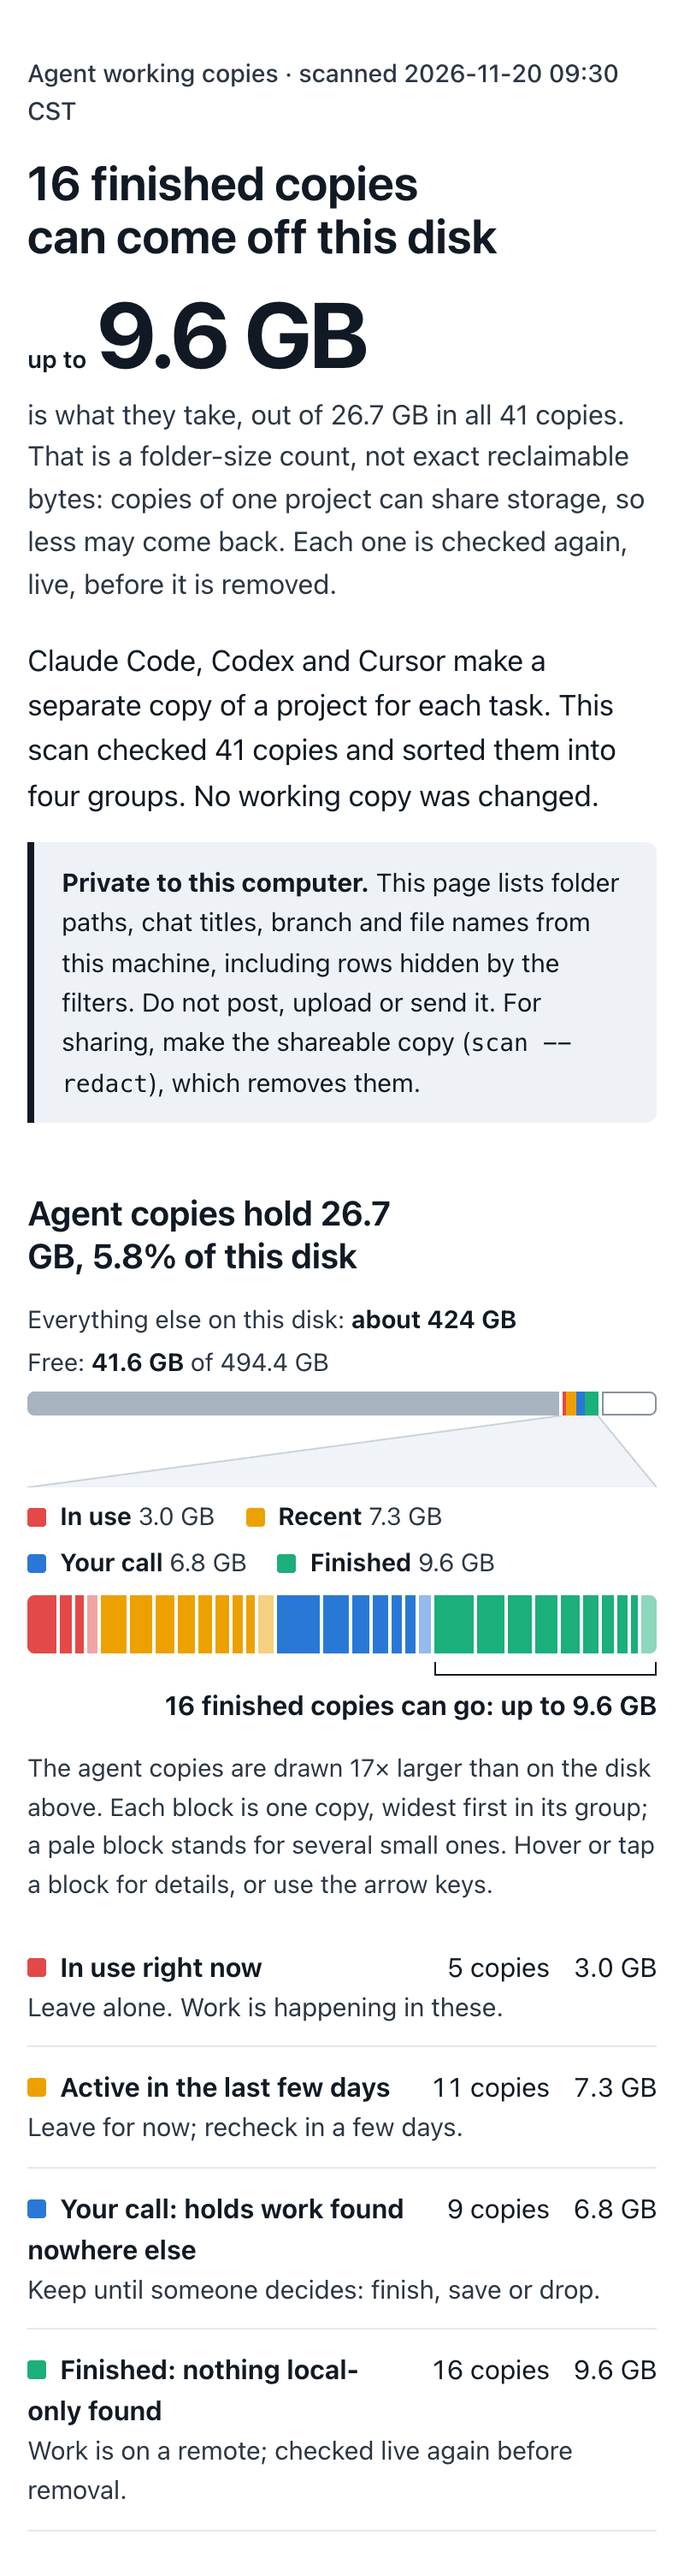
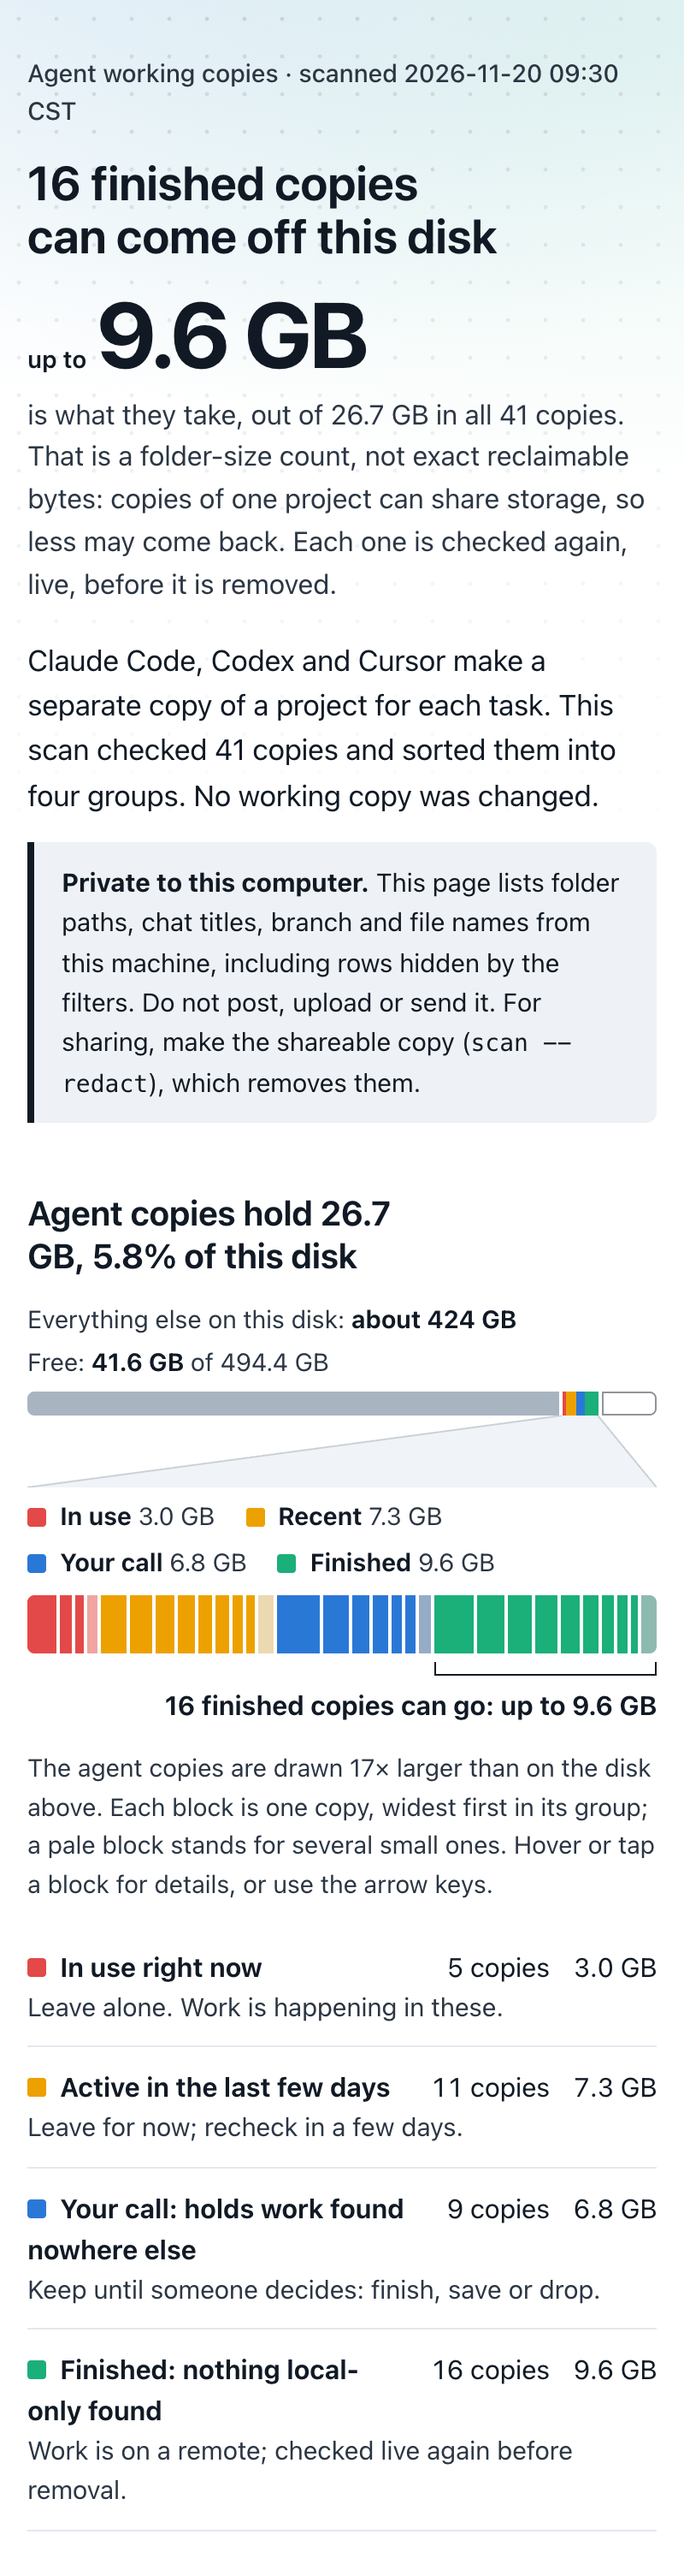
feat: a soft glow and a faint dot pattern behind the headline (#5)
The page's background was flat. It now has a faint blue and green glow and a
light dot pattern behind the headline and the big figure, in both themes. It
fades out before the charts and tables, so nothing sits behind dense text or
data.

It is drawn with CSS gradients only: no image, nothing embedded and nothing
loaded, so the page stays one self-contained file. The pattern cannot catch a
click and sits under the content. A new test checks that it is gradients only
and defined for both themes.

README pictures that show the top of the page, the clip and the live demo
page were rebuilt. The tool itself is unchanged.

diff --git a/docs/index.html b/docs/index.html
@@ -5,20 +5,25 @@
 <style>
 /* Layout: one report on one surface. The answer first (what can go and how much comes back), then the disk drawn
    to scale with the agent copies magnified so every copy is a block, then the trend, the reasons and every copy.
-   Color belongs to the four groups and to nothing else. */
+   Color belongs to the four groups; the one other use is a faint glow and dot pattern behind the headline,
+   drawn with gradients only (no image) and gone before the charts and tables begin. */
 :root{
  --bg:#ffffff;--ink:#111a24;--ink2:#2b3644;--rule:#c9d1db;--hair:#e4e9ef;--band:#eef2f6;--axis:#8793a2;
  --other:#a9b4c1;--wedge:#f0f3f7;--tipbg:#111a24;--tipfg:#ffffff;--focus:#1d4c96;--hit:#fff1c9;
  --g-inuse:#e34948;--g-recent:#eda100;--g-decide:#2a78d6;--g-done:#1baf7a;
+ --glow:rgba(42,120,214,.13);--glow2:rgba(27,175,122,.10);--dot:rgba(17,26,36,.13);
  --body:system-ui,-apple-system,"Segoe UI",Roboto,"Helvetica Neue",Arial,sans-serif;
  --mono:ui-monospace,SFMono-Regular,Menlo,Consolas,monospace;
 }
-@media (prefers-color-scheme:dark){:root:not([data-theme="light"]){--bg:#11161d;--ink:#f1f4f8;--ink2:#d6dde6;--rule:#3a4757;--hair:#232d39;--band:#1a222d;--axis:#77879a;--other:#566373;--wedge:#1a222d;--tipbg:#f1f4f8;--tipfg:#11161d;--focus:#9ec0ff;--hit:#3a3113;--g-recent:#c98500;--g-decide:#3987e5;--g-done:#199e70;color-scheme:dark}}
-:root[data-theme="dark"]{--bg:#11161d;--ink:#f1f4f8;--ink2:#d6dde6;--rule:#3a4757;--hair:#232d39;--band:#1a222d;--axis:#77879a;--other:#566373;--wedge:#1a222d;--tipbg:#f1f4f8;--tipfg:#11161d;--focus:#9ec0ff;--hit:#3a3113;--g-recent:#c98500;--g-decide:#3987e5;--g-done:#199e70;color-scheme:dark}
+@media (prefers-color-scheme:dark){:root:not([data-theme="light"]){--bg:#11161d;--ink:#f1f4f8;--ink2:#d6dde6;--rule:#3a4757;--hair:#232d39;--band:#1a222d;--axis:#77879a;--other:#566373;--wedge:#1a222d;--tipbg:#f1f4f8;--tipfg:#11161d;--focus:#9ec0ff;--hit:#3a3113;--glow:rgba(57,135,229,.22);--glow2:rgba(25,158,112,.14);--dot:rgba(241,244,248,.13);--g-recent:#c98500;--g-decide:#3987e5;--g-done:#199e70;color-scheme:dark}}
+:root[data-theme="dark"]{--bg:#11161d;--ink:#f1f4f8;--ink2:#d6dde6;--rule:#3a4757;--hair:#232d39;--band:#1a222d;--axis:#77879a;--other:#566373;--wedge:#1a222d;--tipbg:#f1f4f8;--tipfg:#11161d;--focus:#9ec0ff;--hit:#3a3113;--glow:rgba(57,135,229,.22);--glow2:rgba(25,158,112,.14);--dot:rgba(241,244,248,.13);--g-recent:#c98500;--g-decide:#3987e5;--g-done:#199e70;color-scheme:dark}
 *{box-sizing:border-box}
 html{-webkit-text-size-adjust:100%}
-body{background:var(--bg);color:var(--ink);font-family:var(--body);font-size:16px;line-height:1.55;-webkit-font-smoothing:antialiased;margin:0}
-.wrap{max-width:1080px;margin:0 auto;padding-block:32px 72px;padding-left:max(16px,env(safe-area-inset-left,0px));padding-right:max(16px,env(safe-area-inset-right,0px));display:flex;flex-direction:column;gap:48px}
+body{background:var(--bg);color:var(--ink);font-family:var(--body);font-size:16px;line-height:1.55;-webkit-font-smoothing:antialiased;margin:0;position:relative}
+body::before,body::after{content:"";position:absolute;left:0;right:0;top:0;height:1100px;pointer-events:none;z-index:0}
+body::before{background:radial-gradient(900px 460px at 14% -6%,var(--glow),transparent 66%),radial-gradient(760px 420px at 96% 2%,var(--glow2),transparent 64%)}
+body::after{background:radial-gradient(var(--dot) 1px,transparent 1.4px) 0 0/22px 22px;-webkit-mask-image:radial-gradient(1100px 700px at 30% 0,#000 0,transparent 78%);mask-image:radial-gradient(1100px 700px at 30% 0,#000 0,transparent 78%)}
+.wrap{max-width:1080px;margin:0 auto;padding-block:32px 72px;padding-left:max(16px,env(safe-area-inset-left,0px));padding-right:max(16px,env(safe-area-inset-right,0px));display:flex;flex-direction:column;gap:48px;position:relative;z-index:1}
 h1{font-weight:650;font-size:clamp(28px,4.6vw,40px);line-height:1.12;letter-spacing:-.01em;margin:0;text-wrap:balance}
 h2{font-weight:650;font-size:clamp(20px,2.6vw,24px);line-height:1.25;margin:0;text-wrap:balance}
 h3{font-weight:650;font-size:17px;line-height:1.3;margin:0}

diff --git a/scripts/agent_copy_sort.py b/scripts/agent_copy_sort.py
@@ -2090,16 +2090,19 @@ def record_history(state, report, now):
 # every chart also names its groups in text, so color never works alone.
 _DARK = ('--bg:#11161d;--ink:#f1f4f8;--ink2:#d6dde6;--rule:#3a4757;--hair:#232d39;--band:#1a222d;--axis:#77879a;'
          '--other:#566373;--wedge:#1a222d;--tipbg:#f1f4f8;--tipfg:#11161d;--focus:#9ec0ff;--hit:#3a3113;'
+         '--glow:rgba(57,135,229,.22);--glow2:rgba(25,158,112,.14);--dot:rgba(241,244,248,.13);'
          '--g-recent:#c98500;--g-decide:#3987e5;--g-done:#199e70;color-scheme:dark')
 
 STYLE = r"""<style>
 /* Layout: one report on one surface. The answer first (what can go and how much comes back), then the disk drawn
    to scale with the agent copies magnified so every copy is a block, then the trend, the reasons and every copy.
-   Color belongs to the four groups and to nothing else. */
+   Color belongs to the four groups; the one other use is a faint glow and dot pattern behind the headline,
+   drawn with gradients only (no image) and gone before the charts and tables begin. */
 :root{
  --bg:#ffffff;--ink:#111a24;--ink2:#2b3644;--rule:#c9d1db;--hair:#e4e9ef;--band:#eef2f6;--axis:#8793a2;
  --other:#a9b4c1;--wedge:#f0f3f7;--tipbg:#111a24;--tipfg:#ffffff;--focus:#1d4c96;--hit:#fff1c9;
  --g-inuse:#e34948;--g-recent:#eda100;--g-decide:#2a78d6;--g-done:#1baf7a;
+ --glow:rgba(42,120,214,.13);--glow2:rgba(27,175,122,.10);--dot:rgba(17,26,36,.13);
  --body:system-ui,-apple-system,"Segoe UI",Roboto,"Helvetica Neue",Arial,sans-serif;
  --mono:ui-monospace,SFMono-Regular,Menlo,Consolas,monospace;
 }
@@ -2107,8 +2110,11 @@ STYLE = r"""<style>
 :root[data-theme="dark"]{__DARK__}
 *{box-sizing:border-box}
 html{-webkit-text-size-adjust:100%}
-body{background:var(--bg);color:var(--ink);font-family:var(--body);font-size:16px;line-height:1.55;-webkit-font-smoothing:antialiased;margin:0}
-.wrap{max-width:1080px;margin:0 auto;padding-block:32px 72px;padding-left:max(16px,env(safe-area-inset-left,0px));padding-right:max(16px,env(safe-area-inset-right,0px));display:flex;flex-direction:column;gap:48px}
+body{background:var(--bg);color:var(--ink);font-family:var(--body);font-size:16px;line-height:1.55;-webkit-font-smoothing:antialiased;margin:0;position:relative}
+body::before,body::after{content:"";position:absolute;left:0;right:0;top:0;height:1100px;pointer-events:none;z-index:0}
+body::before{background:radial-gradient(900px 460px at 14% -6%,var(--glow),transparent 66%),radial-gradient(760px 420px at 96% 2%,var(--glow2),transparent 64%)}
+body::after{background:radial-gradient(var(--dot) 1px,transparent 1.4px) 0 0/22px 22px;-webkit-mask-image:radial-gradient(1100px 700px at 30% 0,#000 0,transparent 78%);mask-image:radial-gradient(1100px 700px at 30% 0,#000 0,transparent 78%)}
+.wrap{max-width:1080px;margin:0 auto;padding-block:32px 72px;padding-left:max(16px,env(safe-area-inset-left,0px));padding-right:max(16px,env(safe-area-inset-right,0px));display:flex;flex-direction:column;gap:48px;position:relative;z-index:1}
 h1{font-weight:650;font-size:clamp(28px,4.6vw,40px);line-height:1.12;letter-spacing:-.01em;margin:0;text-wrap:balance}
 h2{font-weight:650;font-size:clamp(20px,2.6vw,24px);line-height:1.25;margin:0;text-wrap:balance}
 h3{font-weight:650;font-size:17px;line-height:1.3;margin:0}

diff --git a/tests/test_agent_copy_sort.py b/tests/test_agent_copy_sort.py
@@ -1348,6 +1348,21 @@ class DemoPageTest(unittest.TestCase):
         assert_no_network(self, hosted.replace(render_demo.SITE_STRIP, ''))
         self.assertTrue((site.parent / '.nojekyll').exists(), 'GitHub Pages must serve the file as it is')
 
+    def test_background_is_drawn_with_gradients_only_in_both_themes(self):
+        for page in (self.page, self.share):
+            style = page.split('<style>', 1)[1].split('</style>', 1)[0]
+            self.assertIn('body::before', style)
+            self.assertIn('radial-gradient(var(--dot) 1px', style)
+            # Light value once, dark value under the system setting and again under the explicit dark theme.
+            for token in ('--glow:', '--glow2:', '--dot:'):
+                self.assertEqual(style.count(token), 3, token)
+            # No picture behind it: nothing to fetch and nothing embedded.
+            for mark in ('url(', 'data:', '<img', 'image-set('):
+                self.assertNotIn(mark, page)
+            # The pattern can never catch a click or sit above the content.
+            self.assertIn('pointer-events:none;z-index:0', style)
+            self.assertIn('position:relative;z-index:1}', style)
+
     def pure_helpers(self, expression):
         """Run the page script's own pure helpers (sizes, changes, strip labels) in node; return the result."""
         js = self.page.split('<script>', 1)[1].rsplit('</script>', 1)[0]
